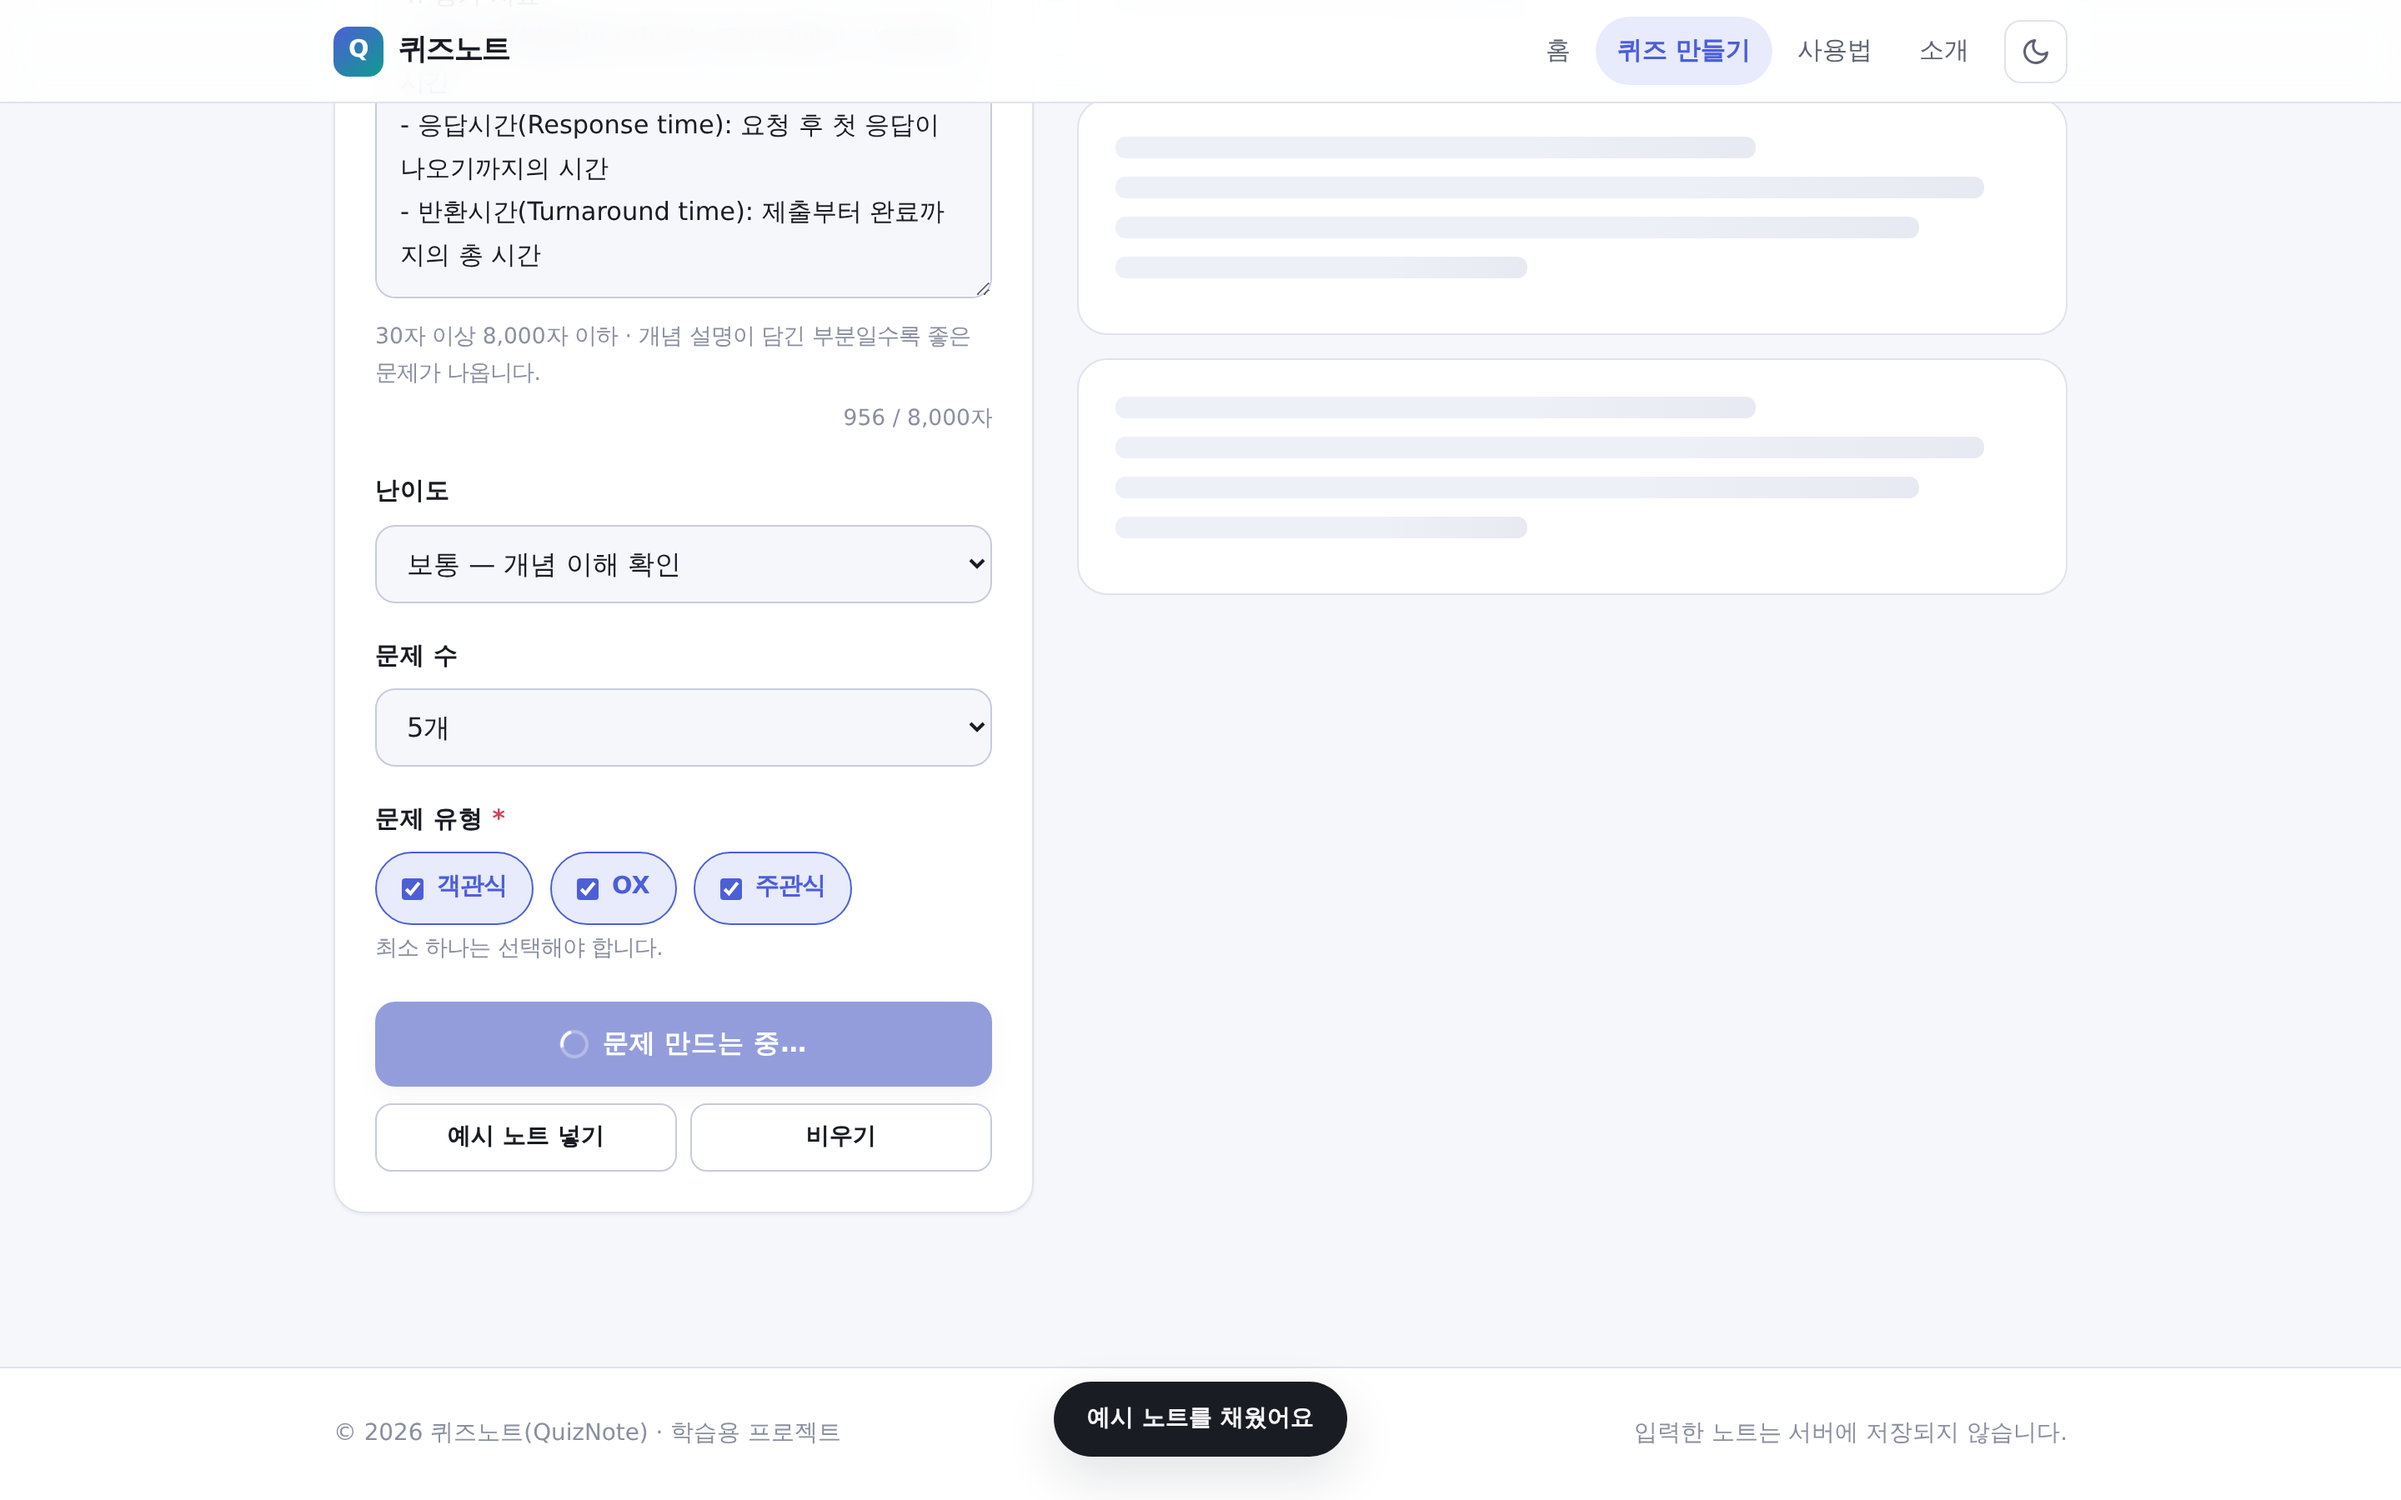
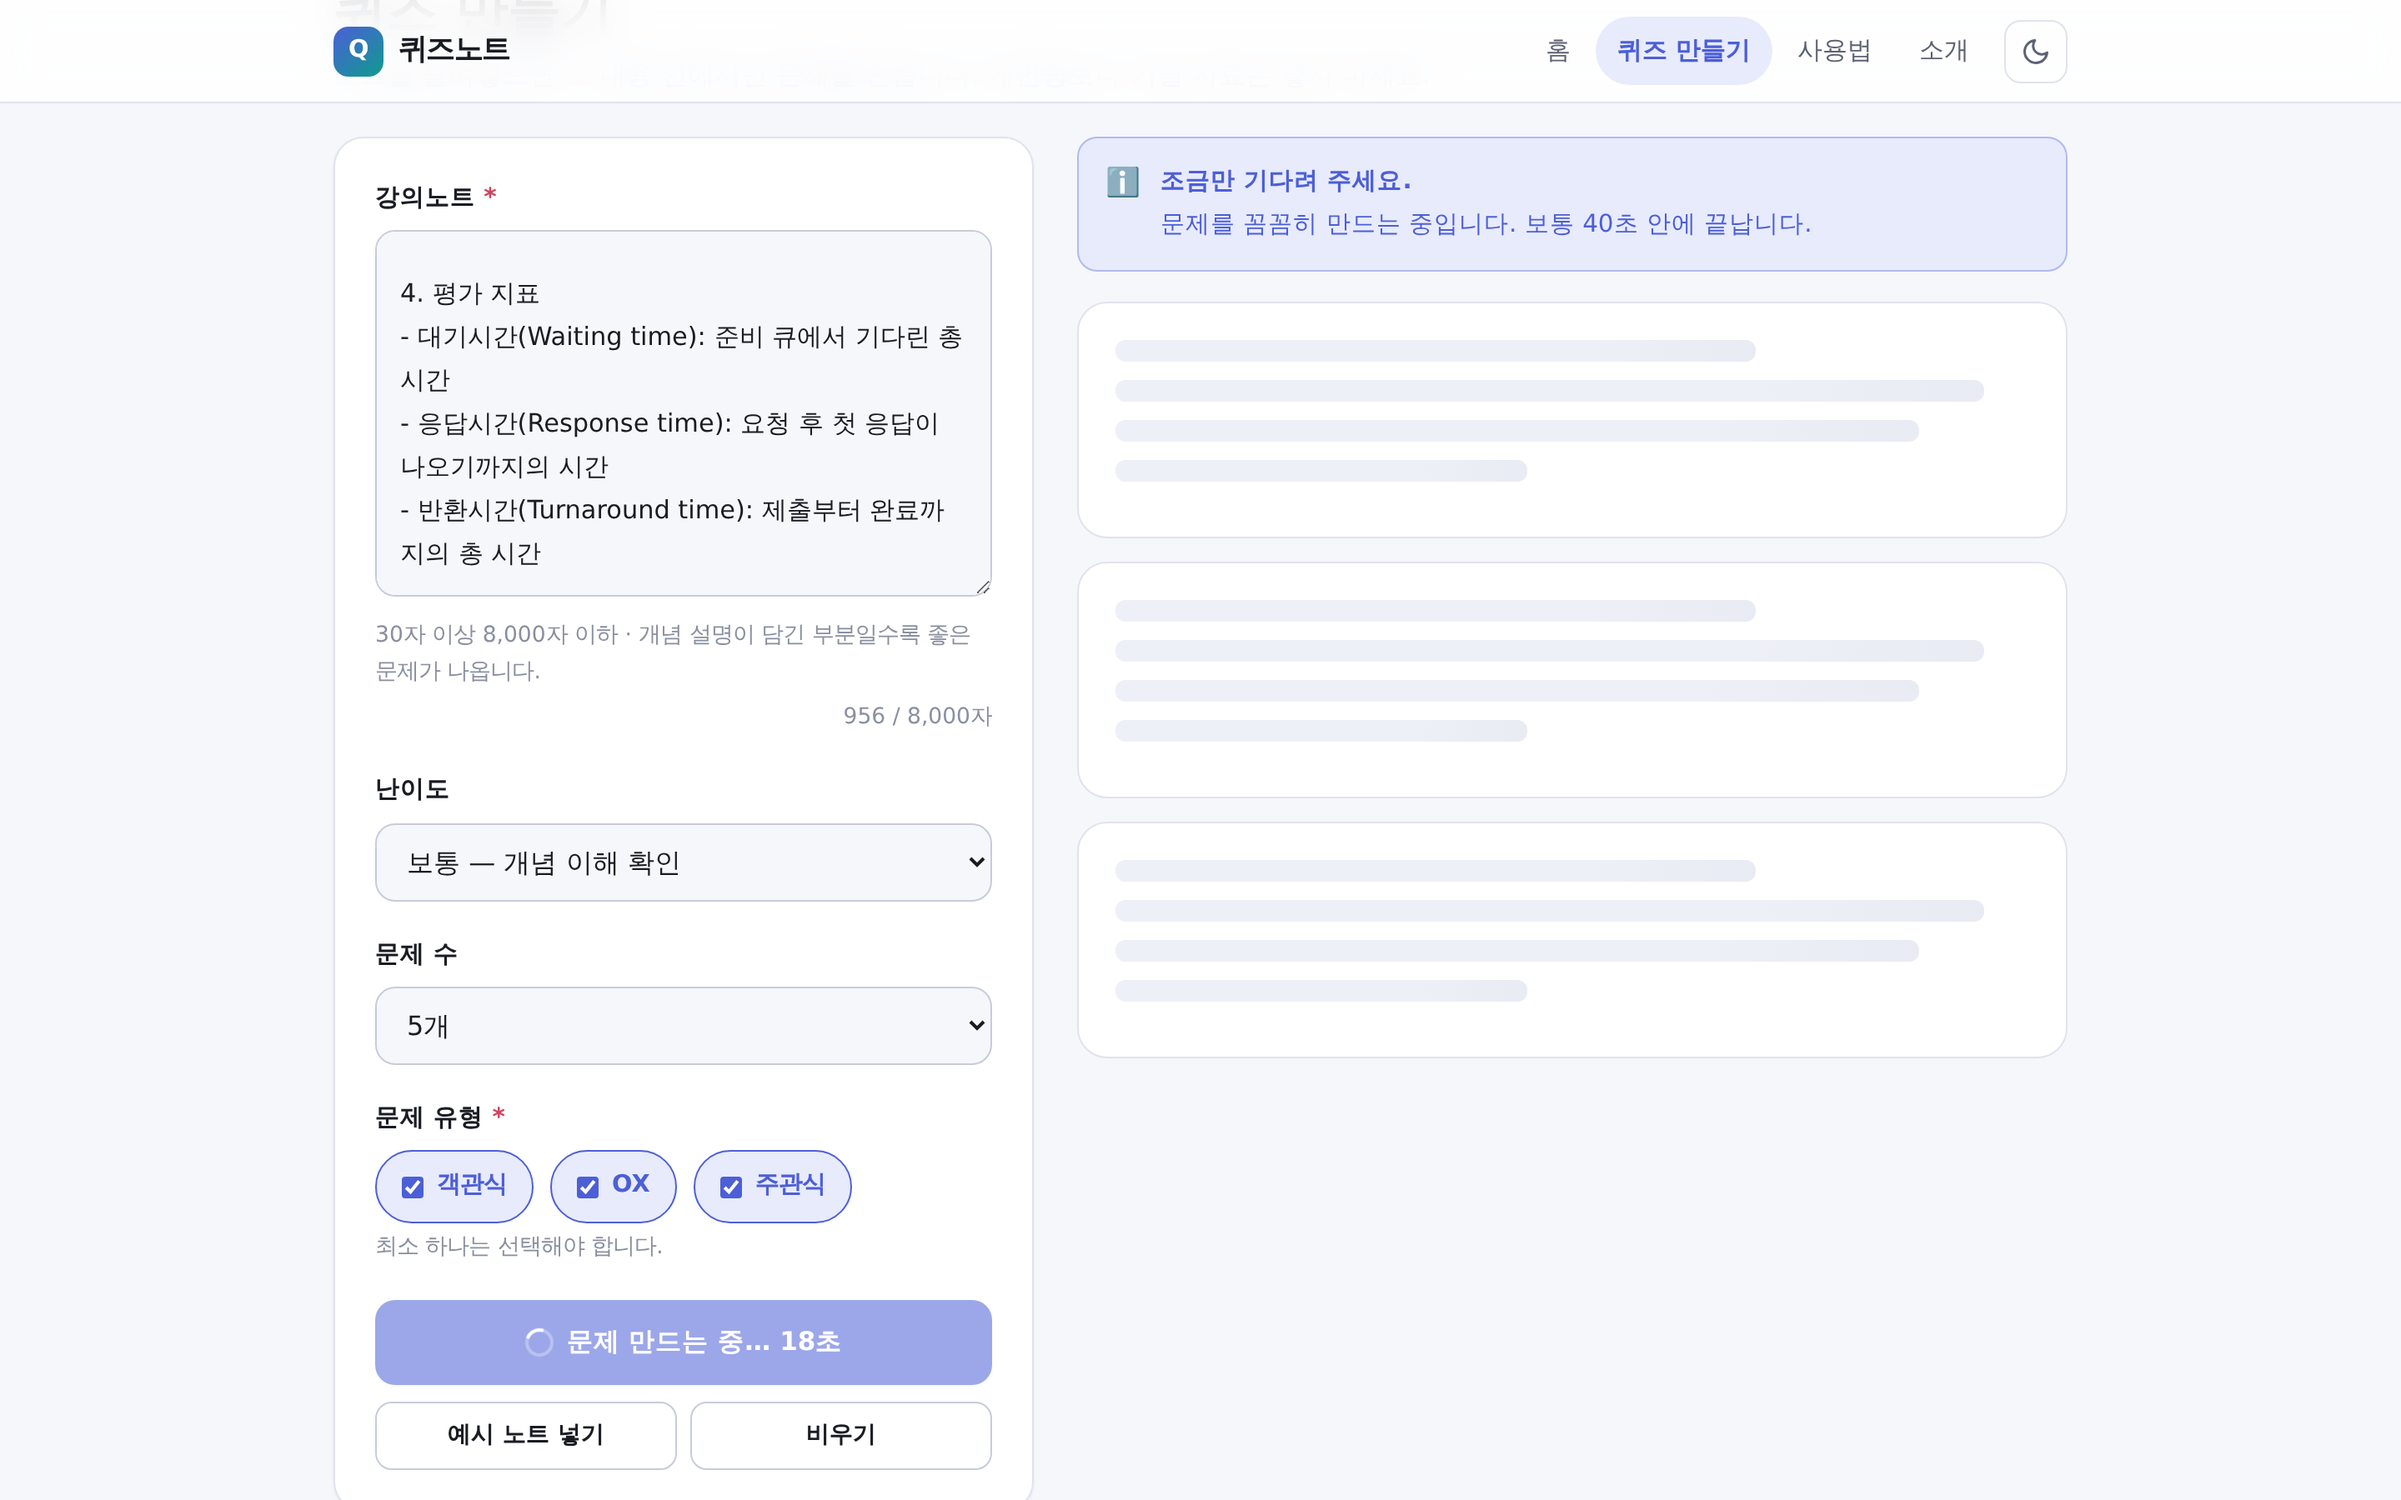
fix: 추론 모델 응답 시간에 맞춰 타임아웃 계층 재조정
gpt-5-mini 같은 추론 모델은 25초 안에 끝나지 않는 경우가 있었다.

- 업스트림 읽기 50초 < 프론트 55초 < Vercel 함수 60초 순서로 정렬
  (백엔드가 먼저 끊어야 원인이 담긴 안내를 돌려줄 수 있음)
- 대기 중 경과 시간 표시와 15초 시점 안내 배너 추가
- 결과 렌더링 시 대기 안내 배너 정리

Claude-Session: https://claude.ai/code/session_01PGiH5AVx8vTXdwMsNK33bS

diff --git a/js/quiz.js b/js/quiz.js
@@ -6,7 +6,12 @@
 /* ---- 상수 ---------------------------------------------------------------- */
 const MIN_LEN = 30;       // 최소 입력 길이
 const MAX_LEN = 8000;     // 최대 입력 길이 (백엔드와 동일하게 맞춘다)
-const TIMEOUT_MS = 25000; // 프론트 타임아웃. 백엔드(45초)보다 짧게 잡아 먼저 끊는다.
+// 프론트 타임아웃.
+// 백엔드의 업스트림 제한(50초)보다 살짝 길게 잡는다.
+// 그래야 백엔드가 먼저 끊고 원인이 담긴 안내를 돌려줄 수 있고,
+// 이 타이머는 백엔드 자체가 멈췄을 때의 최후 안전장치로만 작동한다.
+// 추론 모델(GPT-5 계열)은 문제 10개 생성에 40초 가까이 걸리기도 한다.
+const TIMEOUT_MS = 55000;
 
 const TYPE_LABEL = { multiple: '객관식', ox: 'OX', short: '주관식' };
 
@@ -89,10 +94,16 @@ function clearAlert() {
   notesEl.removeAttribute('aria-invalid');
 }
 
-/** 전송 중에는 버튼을 잠가 중복 호출(=중복 과금)을 막는다. */
+let elapsedTimer = null;
+
+/**
+ * 전송 중에는 버튼을 잠가 중복 호출(=중복 과금)을 막는다.
+ * 응답이 40초 넘게 걸리는 모델도 있어서, 경과 시간을 같이 보여준다.
+ * 아무 변화 없이 멈춰 있는 화면은 사용자가 "고장 났나" 하고 새로고침하게 만든다.
+ */
 function setLoading(on) {
   submitBtn.disabled = on;
-  submitLabel.textContent = on ? '문제 만드는 중…' : '퀴즈 생성하기';
+
   const sp = submitBtn.querySelector('.spinner');
   if (on && !sp) {
     const s = document.createElement('span');
@@ -101,6 +112,26 @@ function setLoading(on) {
   } else if (!on && sp) {
     sp.remove();
   }
+
+  clearInterval(elapsedTimer);
+
+  if (!on) {
+    submitLabel.textContent = '퀴즈 생성하기';
+    return;
+  }
+
+  const started = Date.now();
+  submitLabel.textContent = '문제 만드는 중… 0초';
+
+  elapsedTimer = setInterval(() => {
+    const sec = Math.floor((Date.now() - started) / 1000);
+    submitLabel.textContent = `문제 만드는 중… ${sec}초`;
+
+    // 오래 걸릴 때 한 번만 이유를 알려준다.
+    if (sec === 15 && !alertBox.querySelector('.alert')) {
+      showAlert('info', '조금만 기다려 주세요.', ' 문제를 꼼꼼히 만드는 중입니다. 보통 40초 안에 끝납니다.');
+    }
+  }, 1000);
 }
 
 /** 로딩 중 결과 영역에 보여줄 스켈레톤 */
@@ -136,6 +167,7 @@ function renderEmpty() {
 
 function renderResult(data) {
   lastResult = data;
+  clearAlert(); // 대기 중 띄웠던 안내 배너를 걷어낸다
   resultArea.innerHTML = '';
 
   const quizzes = Array.isArray(data.quizzes) ? data.quizzes : [];
@@ -407,7 +439,7 @@ async function handleSubmit(e) {
   setLoading(true);
   renderSkeleton(count);
 
-  // 실패 처리 ③ 타임아웃: AbortController 로 25초에서 직접 끊는다.
+  // 실패 처리 ③ 타임아웃: AbortController 로 직접 끊는다 (백엔드가 먼저 끊지 못했을 때의 안전장치).
   const controller = new AbortController();
   const timer = setTimeout(() => controller.abort(), TIMEOUT_MS);
 

diff --git a/guide.html b/guide.html
@@ -144,7 +144,7 @@
                   <td>잠시 후 다시 시도해 주세요. 입력한 노트는 지워지지 않습니다</td>
                 </tr>
                 <tr>
-                  <td>응답이 25초를 넘었습니다</td>
+                  <td>응답이 너무 늦어졌습니다</td>
                   <td>처리 지연 / 타임아웃</td>
                   <td>노트를 줄이거나 문제 수를 10개 → 5개로 낮춰 보세요</td>
                 </tr>

diff --git a/api/quiz.py b/api/quiz.py
@@ -45,7 +45,12 @@ MAX_NOTES_LEN = 8000
 MIN_COUNT = 3
 MAX_COUNT = 10
 MAX_BODY_BYTES = 200_000          # 본문 크기 상한 (약 200KB)
-UPSTREAM_TIMEOUT = (5, 45)        # (연결 타임아웃, 읽기 타임아웃) 초
+# (연결 타임아웃, 읽기 타임아웃) 초
+# 세 겹의 제한 시간을 짧은 순서로 맞춰 둔다.
+#   업스트림 읽기 50초  <  프론트 55초  <  Vercel 함수 60초(vercel.json)
+# 이렇게 해야 우리가 먼저 끊고 원인이 담긴 안내를 돌려줄 수 있다.
+# 반대 순서면 Vercel이 함수를 죽여 버려서 사용자는 정체 모를 오류만 본다.
+UPSTREAM_TIMEOUT = (5, 50)
 
 DEFAULT_BASE_URL = "https://api.openai.com/v1"
 DEFAULT_MODEL = "gpt-4o-mini"

diff --git a/docs/증빙자료.md b/docs/증빙자료.md
@@ -19,8 +19,8 @@
 | `desktop-08-home-dark.png` | 다크 모드 — 홈 |
 | `desktop-09-quiz-dark.png` | 다크 모드 — 퀴즈 결과 |
 | `desktop-10-error-429.png` | 실패 처리 ② — API 오류(429 호출 한도) |
-| `desktop-11-loading.png` | 로딩 상태 — 스켈레톤 + 버튼 비활성화 |
-| `desktop-12-timeout.png` | 실패 처리 ③ — 25초 타임아웃 안내 (입력값 유지됨) |
+| `desktop-11-loading.png` | 로딩 상태 — 스켈레톤, 경과 시간 표시, 대기 안내 |
+| `desktop-12-timeout.png` | 실패 처리 ③ — 타임아웃 안내 (입력값 유지됨) |
 
 ### 태블릿 (820 × 1180)
 
@@ -99,7 +99,7 @@ AI 코딩 도구와의 대화 화면 캡처는 제출 시 별도로 첨부합니
 
 ## 3. 검증 로그
 
-### 백엔드 단위 테스트 — 28개 전부 통과
+### 백엔드 단위 테스트 — 46개 전부 통과
 
 모의(mock) 응답으로 OpenAI 호출을 대체해 검증했습니다.
 
@@ -144,9 +144,31 @@ AI 코딩 도구와의 대화 화면 캡처는 제출 시 별도로 첨부합니
   ok   선택 안 한 유형 제외
   ok   사용자 프롬프트에 노트 포함
 
+[7] 베이스 URL / JSON 추출
+  ok   기본값은 OpenAI 본사
+  ok   프록시 주소 반영 / 끝 슬래시 제거 / 경로 중복 방지
+  ok   코드블록·설명이 섞인 응답에서 JSON 추출
+  ok   404 → 502 upstream_not_found
+  ok   403 → 502 upstream_auth
+
+[8] 파라미터 조합 자동 탐색
+  ok   temperature/max_tokens 거부 → gpt5 조합으로 성공
+  ok   response_format 까지 거부 → gpt5-plain 으로 성공
+  ok   전부 거부 → minimal 로 성공
+  ok   OPENAI_PARAM_STYLE 고정 시 첫 호출에 성공
+  ok   모든 조합 실패 → 502 upstream_bad_request
+
 ====================================================
-통과 28 / 실패 0
+통과 46 / 실패 0
 ```
+
+### 실제 연동에서 겪은 문제와 해결
+
+| # | 증상 | 원인 | 해결 |
+|---|---|---|---|
+| 1 | `invalid_api_key` | 다른 서비스의 토큰을 OpenAI 본사 주소로 보냄 | `OPENAI_BASE_URL` 환경 변수로 API 서버 주소를 교체 가능하게 변경 |
+| 2 | 400 `unsupported_feature` | GPT-5 계열은 `max_tokens`·`temperature` 를 받지 않음 | 파라미터 조합을 단계적으로 줄이며 재시도하는 구조 추가 |
+| 3 | 25초 타임아웃 | 추론 모델의 응답이 25초를 넘김 | 백엔드 50초 / 프론트 55초 / Vercel 60초로 계층 정렬, 경과 시간 표시 추가 |
 
 ### 배포 후 확인할 항목
 

diff --git a/README.md b/README.md
@@ -103,7 +103,7 @@ quiznote/
     ▼
 Vercel Serverless Function (api/quiz.py)
     │  ③ 환경 변수에서 OPENAI_API_KEY 를 읽음  ← 브라우저는 이 값을 볼 수 없음
-    │  ④ 프롬프트 구성 후 OpenAI API 호출 (타임아웃 45초)
+    │  ④ 프롬프트 구성 후 AI API 호출 (읽기 타임아웃 50초)
     ▼
 OpenAI Chat Completions API
     │  ⑤ JSON 모드로 문제 생성
@@ -341,7 +341,7 @@ git push
 | OpenAI 인증 실패 | 백엔드 | 502 | AI 서비스 인증에 실패했습니다. |
 | 호출 한도 초과 | 백엔드 | 429 | 요청이 몰리고 있어요. 30초 뒤에 다시 시도해 주세요. |
 | AI 서버 오류 | 백엔드 | 502 | AI 서버가 응답하지 않습니다. |
-| 응답 지연 | 프론트 25초 / 백엔드 45초 | 504 | 응답이 25초를 넘었습니다. 노트나 문제 수를 줄여 주세요. |
+| 응답 지연 | 백엔드 50초 / 프론트 55초 | 504 | 응답이 너무 늦어졌습니다. 노트나 문제 수를 줄여 주세요. |
 | 응답 형식 오류 | 백엔드 | 502 | AI 응답 형식이 올바르지 않습니다. |
 | 네트워크 끊김 | 프론트 | — | 서버에 연결하지 못했습니다. |
 

diff --git a/docs/기획서.md b/docs/기획서.md
@@ -166,7 +166,7 @@
 | 6 | OpenAI 인증 실패 (401) | 백엔드 | 502 | "AI 서비스 인증에 실패했습니다. 관리자에게 문의해 주세요." |
 | 7 | 요청 한도 초과 (429) | 백엔드 | 429 | "요청이 몰리고 있어요. 30초 뒤에 다시 시도해 주세요." |
 | 8 | AI 서버 오류 (5xx) | 백엔드 | 502 | "AI 서버가 응답하지 않습니다. 잠시 후 다시 시도해 주세요." |
-| 9 | 응답 지연 / 타임아웃 | 프론트 25초 + 백엔드 45초 | 504 | "응답이 25초를 넘었습니다. 노트를 조금 줄이거나 문제 수를 줄여 다시 시도해 주세요." |
+| 9 | 응답 지연 / 타임아웃 | 백엔드 50초 + 프론트 55초 | 504 | "응답이 너무 늦어졌습니다. 노트를 조금 줄이거나 문제 수를 줄여 다시 시도해 주세요." |
 | 10 | JSON 파싱 실패 | 백엔드 | 502 | "AI 응답 형식이 올바르지 않습니다. 다시 시도해 주세요." |
 | 11 | 네트워크 끊김 | 프론트 | — | "인터넷 연결을 확인해 주세요." |
 
